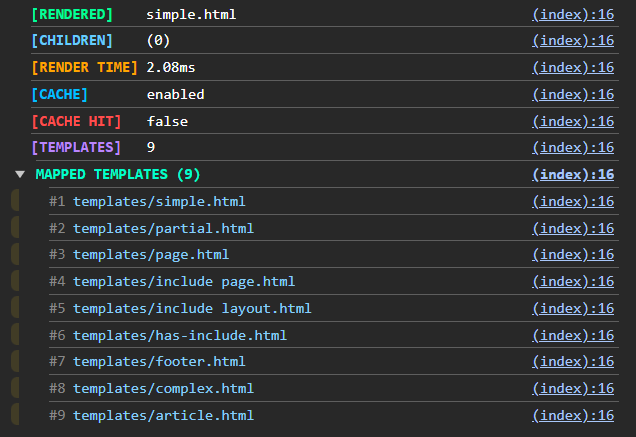
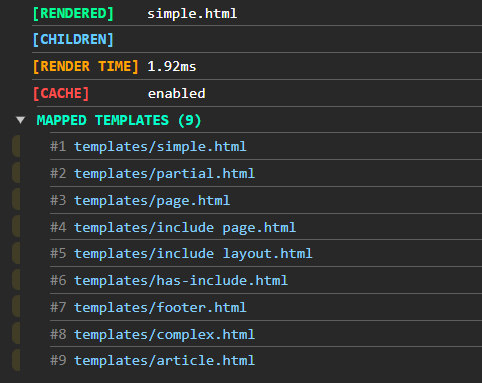
update

Changed region(s): [[0.0, 0.0, 0.9959, 0.9765]]

diff --git a/src/tao.ts b/src/tao.ts
@@ -19,6 +19,7 @@ import {
   initVariablesAndHelpers,
   getFullPath,
   escapeRegExp,
+  getFileName,
 } from './utils';
 import { TEMPLATE_VARNAME, TP_VARNAME_WITH_PREFIX } from './const';
 import {
@@ -278,13 +279,13 @@ export class Tao {
    * @param data Provide data to inject.
    * @param helpers Provide helper functions to inject.
    */
-  render(template: string, data: Data = {}, helpers: Helpers = {}): string {
+  render(template = '', data: Data = {}, helpers: Helpers = {}): string {
     const { views, extension, fileResolution } = this.config;
     const ɵɵstart = performance.now();
     let filename = template;
 
     const pathWithExtension = getPathWithExtension(template, extension);
-    if (!this.parentTemplate) this.parentTemplate = pathWithExtension;
+    if (!this.parentTemplate) this.parentTemplate = getFileName(pathWithExtension);
 
     if (isTemplateDynamicallyDefined(template)) {
       const cachedTemplate = this.handleCachedLoadedTemplate(template);
@@ -327,7 +328,7 @@ export class Tao {
     }
 
     const fullPath = getFullPath(views, pathWithExtension, fileResolution);
-    filename = fullPath.split('/').at(-1)!;
+    filename = getFileName(fullPath);
 
     const fileFound = checkAccessPermission(this.templatePaths, fullPath);
     if (!fileFound) return '';

diff --git a/src/metrics.ts b/src/metrics.ts
@@ -48,9 +48,9 @@ function includeMetrics(metricsData: Metrics) {
 
   const templatesPathWithDirectory = getFileNameAndAbsPath(files);
 
-  return `'<script>console.log(${logRendered(
+  return `'<script>const data = ' + JSON.stringify(it) + ';console.log(${logRendered(
     filename
-  )});${logChildTemplatesCount()};${logRenderTime()};console.log(${logCache(
+  )});${logChildTemplatesCount()};${logRenderTime()};${logData()};console.log(${logCache(
     cacheEnabled
   )});${logMappedTemplates(templatesPathWithDirectory)}</script>'`;
 }
@@ -73,8 +73,14 @@ function logRendered(template: string) {
   return `"%c[RENDERED]%c    ${template}", "color: #00ff99;font-weight:bold", ${getNormalStyle()}`;
 }
 
+function logData() {
+  // return `console.log(\`' + JSON.stringify(it) + '\`)`;
+}
+
 function logChildTemplatesCount() {
-  return `console.log("%c[CHILDREN]%c    ' + ɵɵchildren.join(', ') + ' (' + ɵɵchildren.length + ')' + '", "color: #66ccff;font-weight:bold",${getNormalStyle()})`;
+  const children = `(ɵɵchildren.length ? ɵɵchildren.join(", ") : "")`;
+
+  return `console.log("%c[CHILDREN]%c    ' + ${children} + '", "color: #66ccff;font-weight:bold",${getNormalStyle()})`;
 }
 
 function logRenderTime() {

diff --git a/src/utils.ts b/src/utils.ts
@@ -10,12 +10,11 @@ import {
   TagType,
 } from './interfaces';
 import path from 'node:path';
-import { normalizeFilesPath } from './templates-access';
 
 function initVariablesAndHelpers(dataOrHelpers: Data | Helpers) {
   const dataEntries = Object.entries(dataOrHelpers);
-
   let variables = '';
+
   for (const [key, value] of dataEntries) {
     variables += `const ${key} = ${getValueType(value)};`;
   }
@@ -116,6 +115,17 @@ function getFullPath(views: string, pathWithExtension: string, fileResolution: F
   return normalizeFilesPath(fullPath);
 }
 
+/**
+ * Normalize file path on windows.
+ */
+function normalizeFilesPath(file: string) {
+  return file.replace(/\\/g, '/');
+}
+
+function getFileName(filename: string) {
+  return filename.split('/').at(-1)!;
+}
+
 function buildPrefixRegex(parseOptions: Parse) {
   const options: string[] = [];
 
@@ -168,4 +178,6 @@ export {
   getFullPath,
   escapeRegExp,
   getPathWithExtension,
+  normalizeFilesPath,
+  getFileName,
 };

diff --git a/src/server.ts b/src/server.ts
@@ -11,22 +11,19 @@ const publicPath = path.join(__dirname, 'public');
 app.use(express.static(publicPath));
 
 const option: options = {
-  tags: {
-    opening: '{{',
-    closing: '}}',
-  },
+  debug: true,
+  metrics: true,
   views: templatesPath,
 };
 
-// {
-//   views: templatesPath,
-//   debug: true,
-//   metrics: true,
-// }
 const tao = new Tao(option);
 
 app.get('/', (req, res) => {
-  const renderedTemplate = tao.render('/simple', { name: `ben` });
+  function nPlusOne(n: number) {
+    return n + 1;
+  }
+
+  const renderedTemplate = tao.render('simple', { name: `ben` }, { nPlusOne });
   res.status(200).send(renderedTemplate);
 });
 

diff --git a/src/templates-access.ts b/src/templates-access.ts
@@ -1,4 +1,5 @@
 import { globSync } from 'glob';
+import { normalizeFilesPath } from './utils';
 
 /**
  * Perform once.
@@ -14,13 +15,6 @@ function getFilesFromDirectory(directory: string, extension: string) {
 
   const normalizedPaths = files.map((file) => normalizeFilesPath(file));
   return normalizedPaths;
-}
-
-/**
- * Normalize file path on windows.
- */
-function normalizeFilesPath(file: string) {
-  return file.replace(/\\/g, '/');
 }
 
 /**

diff --git a/test copy/option.spec.ts b/test copy/option.spec.ts
@@ -54,7 +54,6 @@ describe('Initialisation option', () => {
     };
 
     const tao = new Tao(options);
-    log(tao.mappedFiles);
     const result = tao.render('templates/simple', { name: 'my title' });
 
     expect(result).toContain('Hi my title');

diff --git a/src/templates/simple.html b/src/templates/simple.html
@@ -10,6 +10,6 @@
     <p>this is my content</p>
     <p>this is my content</p>
 
-    <h1>Hi {{= name }}</h1>
+    <h1>Hi <%= name %></h1>
   </body>
 </html>

diff --git a/README.md b/README.md
@@ -33,7 +33,7 @@ console.log(res); // <h1>Hi Tao!</h1>
 
 ## Helpers
 
-Helpers are functions that can be used inside a template. Helpers can be local (only available in a particular `render`) or global (available everywhere on the instance).
+Helpers are functions that can be used inside a template. Helpers can be **local** (only available in a particular `render`) or **global** (available everywhere on the instance).
 
 ```javascript
 import { Tao } from 'tao';
@@ -59,29 +59,29 @@ app.get('/', (req, res) => {
 });
 ```
 
-It is also possible to register helpers on `globalThis` without provided them to the template engine, but it can lead to name collision.
+It is also possible to register helpers on `globalThis` without provide them to the template engine, but it can lead to name collision.
 
 ## Include
 
-In your template, you might want to include another template:
+In your template, you might want to include other templates:
 
 ```html
 <h1>Hi <%= name %>!</h1>
 <%~ include('article', { phone: 'Tao T9' }) %>
 ```
 
-Data and Helpers given in the parent component will be available in the child component.
+Child components will inherit from **data** and **helpers** provided in the parent component.
 
 ## Template prefix options
 
-There are three differents template prefix.
+There are three differents template prefixes:
 
 ```html
-<!-- Evaluation (''): no escape -->
+<!-- Evaluation (''): no escape (ideal for js execution) -->
 <% const age = 33; %>
-<!-- Interpolation (=): escaping -->
+<!-- Interpolation (=): escaping (ideal for data interpolation) -->
 <p><%= `Age: ${age}` %></p>
-<!-- Raw (~): no escape -->
+<!-- Raw (~): no escape (ideal for HTML inclusion) -->
 <%~ include('product') %>
 ```
 
@@ -89,7 +89,7 @@ NB: _Those prefix are configurable in the options._
 
 ## Template paths resolution
 
-`TAO` will _recursively_ add all templates matching the containing `views` path definition:
+`TAO` will _recursively_ add all templates matching the containing `views` path definition
 
 ```javascript
 import { Tao } from 'tao';
@@ -97,7 +97,7 @@ import { Tao } from 'tao';
 const tao = new Tao({ views: path.join(__dirname, 'templates') });
 ```
 
-such that following structure is ok:
+...such that following structure is ok :
 
 ```
 | /templates
@@ -108,11 +108,11 @@ such that following structure is ok:
 |       - nested.html     ✔
 ```
 
-By default, `fileResolution` is set to `flexible`, which means that you can only provide _end unique path fragment_:
+By default, `fileResolution` is set to `flexible`, which means that you can just provide the _unique end of the path_:
 
 ```javascript
-const res = tao.render('templates/products/article'); // not necessary ❌
-const res = tao.render('article'); // accepted ✔
+const res = tao.render('nested'); // accepted ✔
+const res = tao.render('products/.../nested'); // not necessary ❌
 ```
 
 `TAO` will successfully identify the nested templates without providing the subfolder(s).
@@ -154,7 +154,7 @@ In case of an error, a visual representation is available in your browser, givin
 
 NB: _set `debug: true` to activate this option. Do not activate this option in production._
 
-Metrics are also available, so you get some usefull informations about the template rendering time, cache hit, mapped templates, etc. in your browser console.
+Metrics are also available, so you get usefull informations about the template rendering time, cache hit, mapped templates, etc. in your browser console.
 
 ![Metrics](metrics.png)
 
@@ -179,10 +179,10 @@ It started as a fork of `eta`, but became a complete rewrite of the library beca
 - Tao set security by design: Stack traces are not visible in the browser. Increased security in mapping files.
 - Increased developer experience: Visual error representation, metrics, configuration options are checked.
 - Immutability: Data provided in the template is immutable, ie. template data modification does not affect original data.
-- Clearer API: Scope is well defined and restricted, which also improves security. Clean code practices.
+- Clearer API: Scope is well defined and restricted, which also improves security. Clean code practices are enforced.
 - Clearer template syntax: No prefix are needed.
 - Helpers: Global and local helpers, which are clearer and more suitable for little template logic.
-- Flexible template path resolution: With `fileResolution` mode set to `flexible`, only end unique paths can be provided, which increases file path readability (feature equivalent to `namespaces`).
+- Flexible template path resolution: With `fileResolution` mode set to `flexible`, only end unique paths can be provided, which increases file path readability (aka. `namespaces`).
 
 </details>
 
@@ -191,7 +191,7 @@ It started as a fork of `eta`, but became a complete rewrite of the library beca
     <b>Choices</b>
   </summary>
 
-- No async support: Supporting async rendering (e.g., `await include`) within templates encourages placing too much logic in the view layer and is an _anti-pattern_. Templates should be responsible for displaying data, while controllers should handle logic. Async behavior in templates would also require error handling (e.g., `try/catch`), adding complexity. Logic in templates is untestable, undebuggable, and hard to read. In short: if you have async data, fetch it beforehand and render it synchronously.
+- No async support: Supporting async rendering (e.g., `await include`) within templates encourages placing too much logic in the view layer and can be considered as an _anti-pattern_. Templates should be responsible for displaying data, while controllers should handle logic. Async behavior in templates would also require error handling (e.g., `try/catch`), adding complexity. Logic in templates is untestable, undebuggable, and hard to read. In short: if you have async data, fetch it beforehand and render it synchronously.
 
 - No `layouts`: Layouts are essentially includes and add unnecessary complexity to the rendering process.
 
